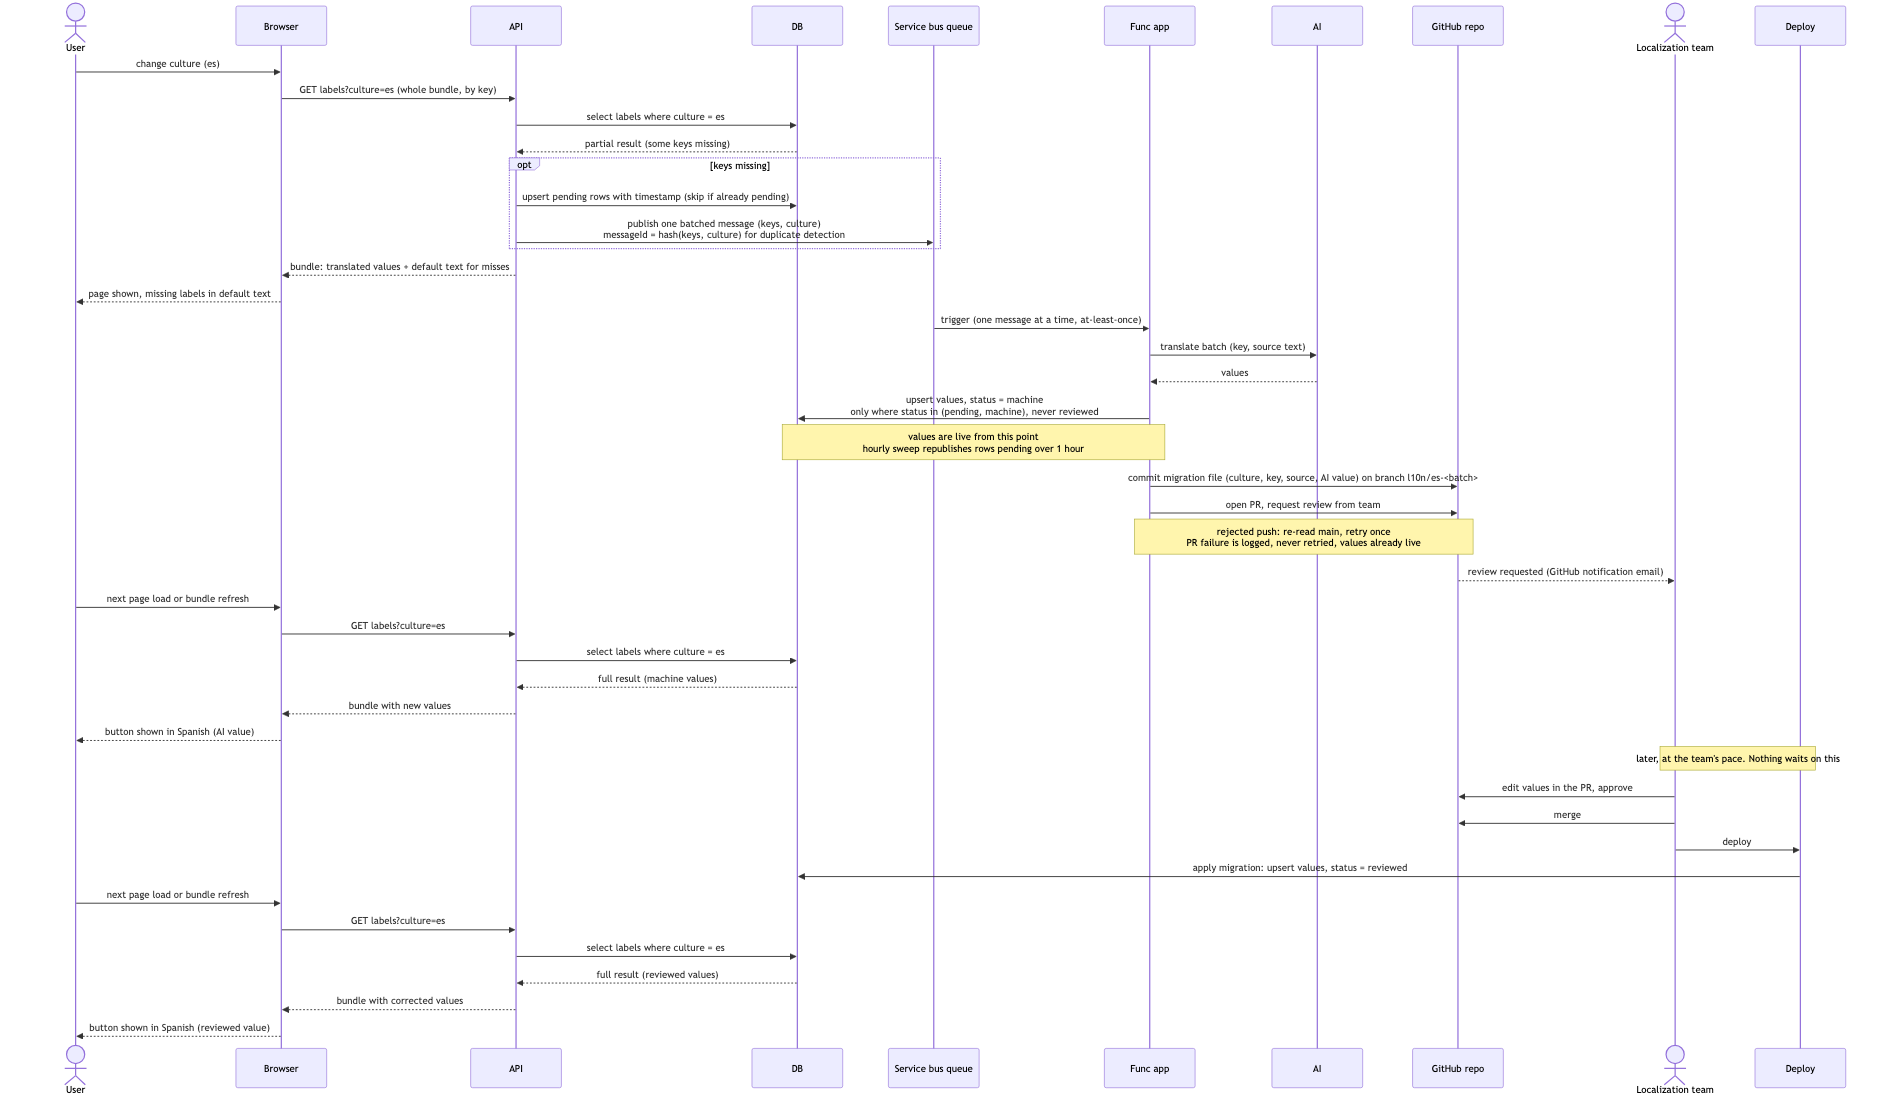
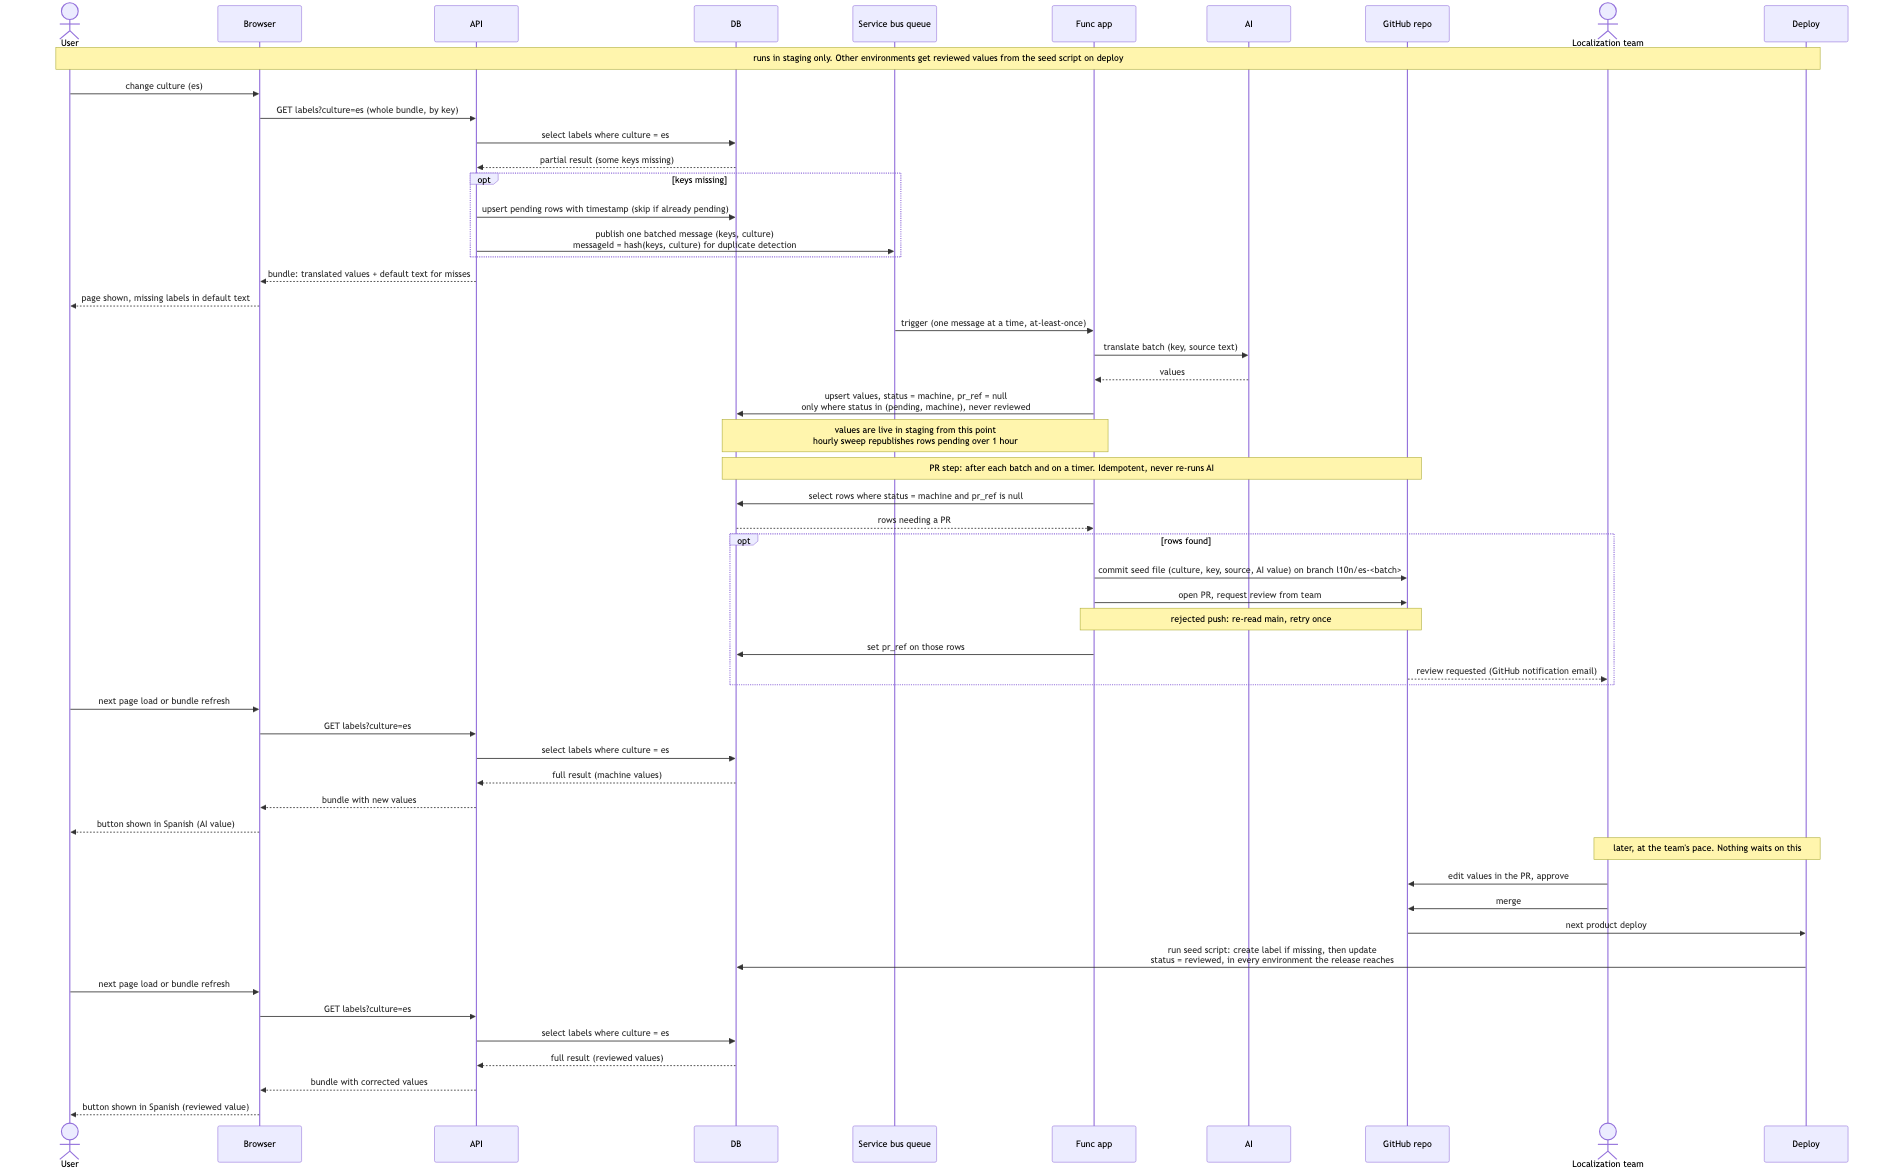
v3: idempotent PR step with pr_ref, staging-only, seed script on deploy

diff --git a/v3/label-localization-sequence.md b/v3/label-localization-sequence.md
@@ -2,37 +2,48 @@
 
 Scope: product UI strings only. Tenant-authored content is out of scope.
 
-The DB stays the source of truth for culture, key, and value. The moment a
-value lands in the DB it is live. The pull request replaces the Review UI and
-the email: it is the notification, the review tool, and the audit log.
+The DB is the source of truth for culture, key, and value. The moment a value
+lands in the DB it is live in that environment. The pull request replaces the
+Review UI and the email: it is the notification, the review tool, and the
+audit log.
+
+This process runs in staging only. Staging is where misses are detected, AI
+values are written, and PRs are opened. Other environments receive reviewed
+values through the seed script on deploy.
 
 Flow:
 
 1. A miss in the bundle upserts pending rows and publishes one batched message
    per culture.
 2. The Func app asks AI to translate the batch and upserts the values into the
-   DB with status `machine`. Users see them on the next bundle fetch.
-3. The Func app then opens a pull request containing a translation migration
-   file for the batch: culture, key, source text, AI value. Reviewers are
-   requested on it. GitHub's review-request email is the notification.
-4. A reviewer edits the values in the PR, approves, merges, and deploys. The
-   deploy applies the migration as an upsert with status `reviewed`.
+   DB with status `machine` and no PR reference. Staging shows them on the next
+   bundle fetch.
+3. A separate PR step selects rows with status `machine` and no PR reference,
+   commits a seed file for them (culture, key, source text, AI value), opens a
+   pull request with the team requested as reviewers, and writes the PR
+   reference back on those rows. It runs after each batch and on a timer, so a
+   failed PR is picked up on the next run without re-running AI.
+4. A reviewer edits the values in the PR, approves, and merges. The next
+   product deploy runs the seed script, which creates any label that is
+   missing and then updates it, setting status `reviewed`. That applies in
+   every environment the release reaches.
 5. The Func app never merges and never deploys.
 
 Rules that keep it safe:
 
 - The AI upsert only writes rows whose status is `pending` or `machine`. A
   `reviewed` row is never overwritten by a later AI run.
-- The migration upsert always wins. It sets status `reviewed`, which the AI
-  path will not touch again.
+- The seed script always wins. It creates missing labels, updates existing
+  ones, and sets status `reviewed`, which the AI path will not touch again.
+- The PR step is idempotent. It is keyed on rows with no PR reference, so a
+  retry or a timer run cannot open a second PR for the same rows.
 - Pending rows carry a timestamp. An hourly sweep republishes rows pending
   longer than an hour, so a dead-lettered batch does not leave keys stuck.
-- The PR is opened after the DB upsert. If the PR step fails, the values are
-  already live and the failure is logged, never retried, so at-least-once
-  redelivery cannot re-run the AI call. The sweep does not cover a missing PR,
-  so log it loudly.
 - Queue consumer handles one message at a time. A rejected push is retried
   once after a fresh read of main.
+
+Accepted for now: one PR per batch, and reviewers editing the seed file by
+hand.
 
 ```mermaid
 sequenceDiagram
@@ -46,6 +57,8 @@ sequenceDiagram
     participant Repo as GitHub repo
     actor Team as Localization team
     participant Deploy
+
+    Note over User,Deploy: runs in staging only. Other environments get reviewed values from the seed script on deploy
 
     User->>Browser: change culture (es)
     Browser->>API: GET labels?culture=es (whole bundle, by key)
@@ -63,13 +76,19 @@ sequenceDiagram
     Queue->>Func: trigger (one message at a time, at-least-once)
     Func->>AI: translate batch (key, source text)
     AI-->>Func: values
-    Func->>DB: upsert values, status = machine<br/>only where status in (pending, machine), never reviewed
-    Note over DB,Func: values are live from this point<br/>hourly sweep republishes rows pending over 1 hour
+    Func->>DB: upsert values, status = machine, pr_ref = null<br/>only where status in (pending, machine), never reviewed
+    Note over DB,Func: values are live in staging from this point<br/>hourly sweep republishes rows pending over 1 hour
 
-    Func->>Repo: commit migration file (culture, key, source, AI value) on branch l10n/es-<batch>
-    Func->>Repo: open PR, request review from team
-    Note over Func,Repo: rejected push: re-read main, retry once<br/>PR failure is logged, never retried, values already live
-    Repo-->>Team: review requested (GitHub notification email)
+    Note over DB,Repo: PR step: after each batch and on a timer. Idempotent, never re-runs AI
+    Func->>DB: select rows where status = machine and pr_ref is null
+    DB-->>Func: rows needing a PR
+    opt rows found
+        Func->>Repo: commit seed file (culture, key, source, AI value) on branch l10n/es-<batch>
+        Func->>Repo: open PR, request review from team
+        Note over Func,Repo: rejected push: re-read main, retry once
+        Func->>DB: set pr_ref on those rows
+        Repo-->>Team: review requested (GitHub notification email)
+    end
 
     User->>Browser: next page load or bundle refresh
     Browser->>API: GET labels?culture=es
@@ -81,8 +100,8 @@ sequenceDiagram
     Note over Team,Deploy: later, at the team's pace. Nothing waits on this
     Team->>Repo: edit values in the PR, approve
     Team->>Repo: merge
-    Team->>Deploy: deploy
-    Deploy->>DB: apply migration: upsert values, status = reviewed
+    Repo->>Deploy: next product deploy
+    Deploy->>DB: run seed script: create label if missing, then update<br/>status = reviewed, in every environment the release reaches
 
     User->>Browser: next page load or bundle refresh
     Browser->>API: GET labels?culture=es

diff --git a/README.md b/README.md
@@ -12,10 +12,12 @@ Each version is a folder with the mermaid source and a rendered PNG.
   review link. AI values go live at once with status `machine`; reviewers
   correct or approve them later, setting status `reviewed`.
 - [v3](v3/label-localization-sequence.md): pull request review, DB source of
-  truth. The Func app upserts AI values into the DB, live at once, then opens a
-  PR with a translation migration file. A human edits, approves, merges, and
-  deploys. The deploy applies the migration with status `reviewed`. No Review
-  UI, no email service. Scope: product UI strings only.
+  truth. Runs in staging only. The Func app upserts AI values into the DB, live
+  at once. An idempotent PR step opens a PR with a seed file for rows that have
+  no PR yet. A human edits, approves, and merges. The next product deploy runs
+  the seed script, creating missing labels and updating them with status
+  `reviewed`, in every environment. No Review UI, no email service. Scope:
+  product UI strings only.
 
 Render a PNG from the source:
 
